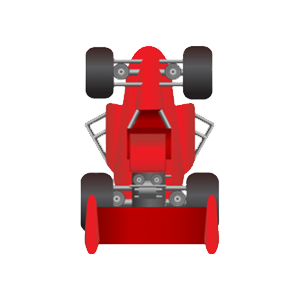
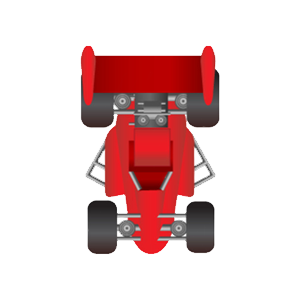
comiteado

Changed region(s): [[0.24, 0.15, 0.75, 0.87]]

diff --git a/Coche/src/prin/Ventana.java b/Coche/src/prin/Ventana.java
@@ -4,6 +4,8 @@ import java.awt.BorderLayout;
 import java.awt.Container;
 import java.awt.event.ActionEvent;
 import java.awt.event.ActionListener;
+import java.awt.event.WindowAdapter;
+import java.awt.event.WindowEvent;
 
 import javax.swing.JButton;
 import javax.swing.JFrame;
@@ -15,8 +17,9 @@ public class Ventana extends JFrame{
 
 	JPanel panelCentro, panelBotones, panelInterface;
 	JButton bAcelerar, bFrenar, bGirarIz, bGirarDe;
-	CocheJuego grafCoche;
-	Hilo miHilo = null;
+	CocheJuego coche;
+	JLabelCoche grafCoche;
+	Hilo hiloVen;
 	
 	
 	public Ventana() {
@@ -24,18 +27,26 @@ public class Ventana extends JFrame{
 		this.setSize(800, 800);
 		panelCentro = new JPanel(null);
 		
+		Hilo h = new Hilo();
 		
 		
-		grafCoche = new CocheJuego();
+		coche = new CocheJuego();
 		
-		panelCentro.add(grafCoche.getGrafico());
+		
+		panelCentro.add(coche.getGrafico());
 		
 		Container panelPrincipal = getContentPane();
 		panelPrincipal.add(panelCentro);
 		panelPrincipal.add(crearBotonera(), BorderLayout.SOUTH);
-		
-		
 		this.setVisible(true);
+		this.addWindowListener(new WindowAdapter() {
+		    @Override
+		    public void windowClosing(WindowEvent e) {
+		    	h.acaba();
+		    }
+		});
+		h.run();
+	
 	}
 	
 	private JPanel crearBotonera() {
@@ -46,8 +57,8 @@ public class Ventana extends JFrame{
 
 			@Override
 			public void actionPerformed(ActionEvent e) {
-				grafCoche.acelera(5);
-				System.out.println(grafCoche.getMiVelocidad());
+				coche.acelera(5);
+				//System.out.println(coche.getMiVelocidad());
 			}
 			
 		});
@@ -56,8 +67,8 @@ public class Ventana extends JFrame{
 
 			@Override
 			public void actionPerformed(ActionEvent e) {
-				grafCoche.acelera(-5);
-				System.out.println(grafCoche.getMiVelocidad());
+				coche.acelera(-5);
+				//System.out.println(coche.getMiVelocidad());
 			}
 			
 		});
@@ -68,8 +79,8 @@ public class Ventana extends JFrame{
 
 			@Override
 			public void actionPerformed(ActionEvent e) {
-				grafCoche.gira(10);
-				System.out.println(grafCoche.getMiDireccionActual());
+				coche.gira(-10);
+				//System.out.println(coche.getMiDireccionActual());
 			}
 			
 		});
@@ -78,8 +89,8 @@ public class Ventana extends JFrame{
 
 			@Override
 			public void actionPerformed(ActionEvent e) {
-				grafCoche.gira(-10);
-				System.out.println(grafCoche.getMiDireccionActual());
+				coche.gira(10);
+				//System.out.println(coche.getMiDireccionActual());
 			}
 			
 		});
@@ -96,13 +107,48 @@ public class Ventana extends JFrame{
 		
 		Hilo(){
 		}
-		public void bucle() {
+		@Override
+		public void run() {
 			while (seguir){
-				Ventana.this.grafCoche.mueve(0.04);
-				Ventana.this.grafCoche.toString();
+				double direc = 0;
+				
+				Ventana.this.coche.mueve(0.04);
+				Ventana.this.coche.getGrafico().setRotacion(Ventana.this.coche.getMiDireccionActual());
+				//System.out.println(Ventana.this.coche.getPosX());
+				
+				if (Ventana.this.coche.getPosX() < -10 || Ventana.this.coche.getPosX() > Ventana.this.panelCentro.getWidth() - 100) {
+					
+				
+					direc = Ventana.this.coche.getMiDireccionActual();
+					direc = 360 - direc;
+					//System.out.println(" PONG ");
+					Ventana.this.coche.setMiDireccionActual(direc);
+				}
+				
+				if (Ventana.this.coche.getPosY() < -10 || Ventana.this.coche.getPosY() > Ventana.this.panelCentro.getHeight() - 100) {
+					
+					
+					direc = Ventana.this.coche.getMiDireccionActual();
+					direc = 180 - direc;
+					//System.out.println(" PONG ");
+					Ventana.this.coche.setMiDireccionActual(direc);
+				}
+					
+					
+				//System.out.println(Ventana.this.coche.toString());
+				try {
+					Thread.sleep(4);
+				} catch (InterruptedException e) {
+					// TODO Auto-generated catch block
+					e.printStackTrace();
+				}
 			}
 			
 		}
+		public void acaba() {
+            this.seguir = false;
+		}
+		
 	}
 	
 }

diff --git a/Coche/src/prin/Coche.java b/Coche/src/prin/Coche.java
@@ -27,13 +27,15 @@ public class Coche {
 	  */
 	  public void gira( double giro ) {
 		  setMiDireccionActual(miDireccionActual + giro);
+		  
 	  }
 	  /** Cambia la posición del coche dependiendo de su velocidad y dirección
 	  * @param tiempoDeMovimiento Tiempo transcurrido, en segundos
 	  */
 	  public void mueve( double tiempoDeMovimiento ) {
-		  this.setPosX(posX + miVelocidad * Math.cos(miDireccionActual / Math.PI * 180.0) * tiempoDeMovimiento);
-		  this.setPosY(posY + miVelocidad * -Math.sin(miDireccionActual /  Math.PI * 180.0 ) * tiempoDeMovimiento);
+		  this.setPosY(posY + miVelocidad * Math.cos(miDireccionActual / 180.0 * Math.PI) * tiempoDeMovimiento);
+		  this.setPosX(posX+ miVelocidad * -Math.sin(miDireccionActual / 180.0 * Math.PI ) * tiempoDeMovimiento);
+		
 		  
 	  } 
 	 

diff --git a/Coche/src/prin/JLabelCoche.java b/Coche/src/prin/JLabelCoche.java
@@ -9,15 +9,32 @@ import javax.swing.ImageIcon;
 import javax.swing.JLabel;
 
 public class JLabelCoche extends JLabel{
-	
+	private double rotacion = Math.PI;
 	private Coche datCoche;
 	
 	public JLabelCoche() {
-		ImageIcon image = new ImageIcon("/Coche/src/Img/coche.png");
+		ImageIcon image = new ImageIcon("src/Img/coche.png");
 		this.setIcon(image);
 		this.setBounds(0, 0, 100, 100);	
 		
+		
+		
+		
+		
 	}
+
+	 public void setRotacion(double rotacion) {
+		this.rotacion = rotacion * Math.PI / 180 ;
+	}
+	 
+	@Override
+	    protected void paintComponent(Graphics g) {
+	        Image img = ((ImageIcon)this.getIcon()).getImage();
+	        Graphics2D g2 = (Graphics2D)g;
+	        g2.rotate(this.rotacion, 50.0, 50.0);
+	        g2.drawImage(img, 0, 0, 100, 100, null);
+	    }
+	
 
 }	
 

diff --git a/Coche/src/prin/Principal.java b/Coche/src/prin/Principal.java
@@ -5,11 +5,13 @@ import prin.Ventana.Hilo;
 public class Principal {
 	Ventana ventana;
 	Coche coche;
+//	Hilo hilo;
 	public static void main(String[] args) {
 		Principal p = new Principal();
 		Coche c = new Coche();
 		p.ventana = new Ventana();
-		
+//		Hilo h = p.ventana.new Hilo();
+//		h.run();
 		
 		
 		
